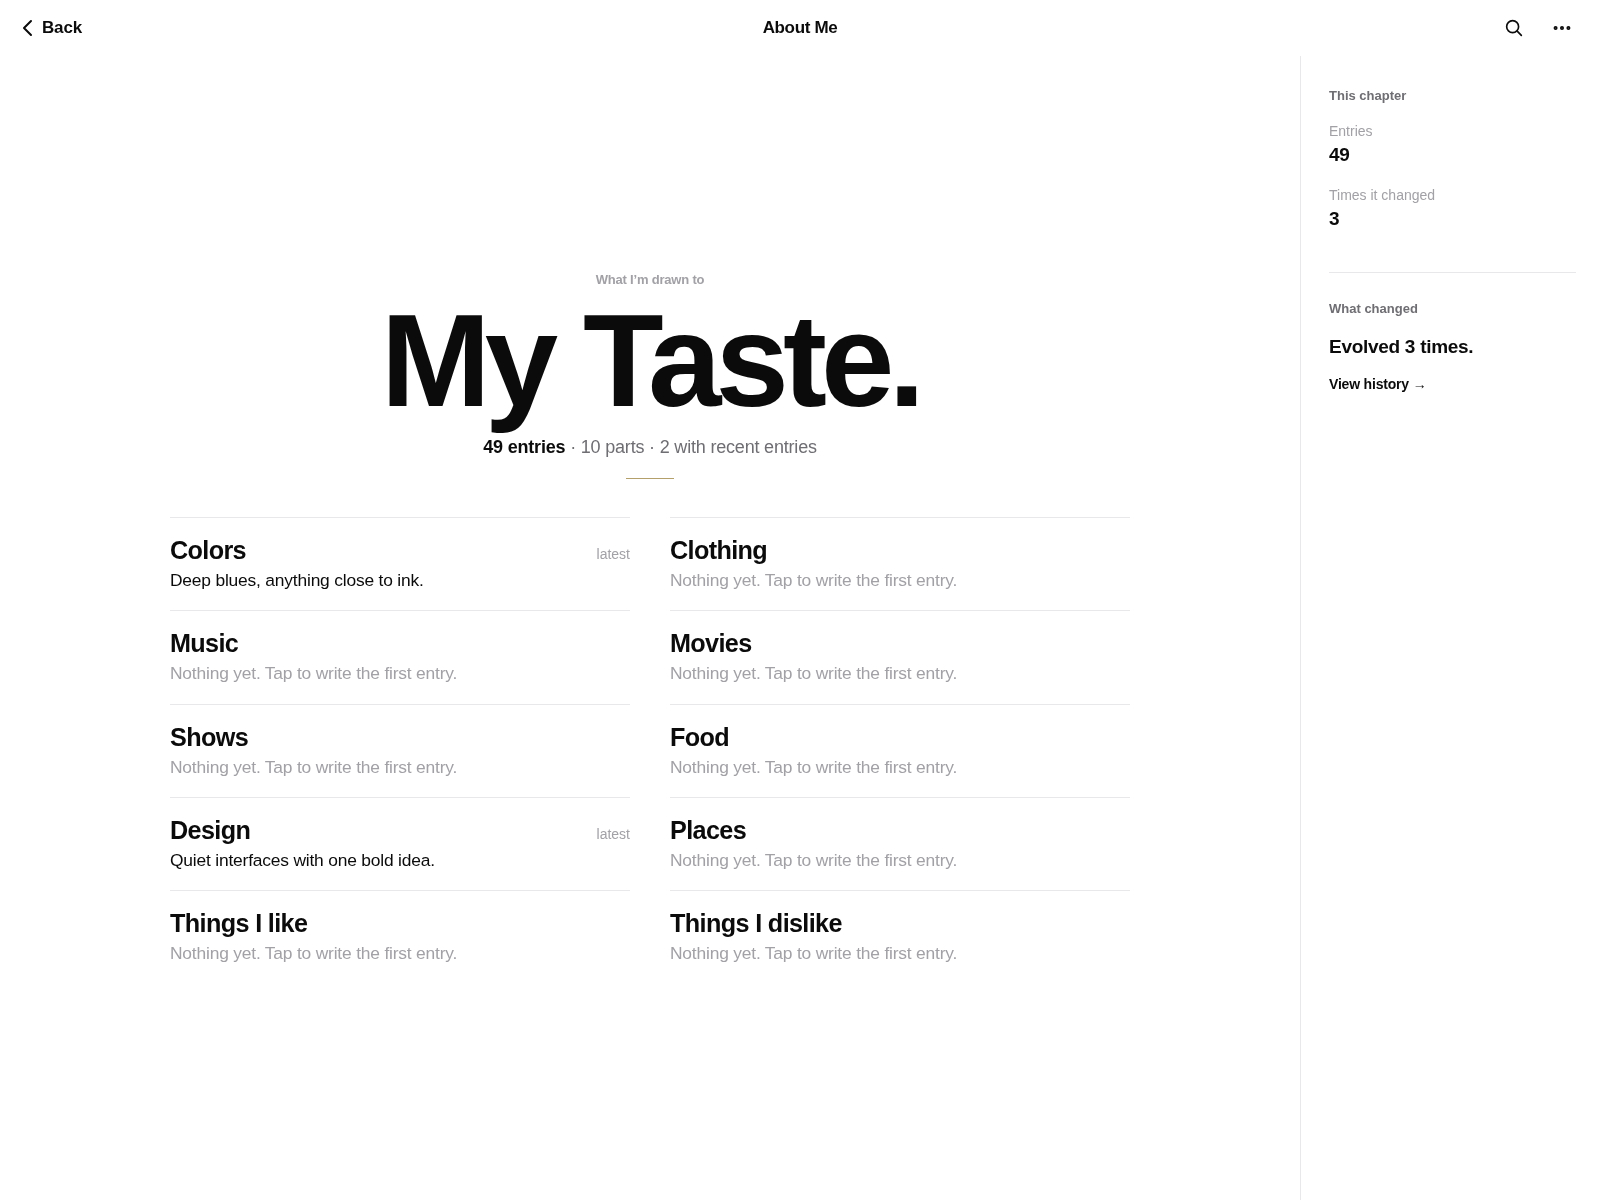
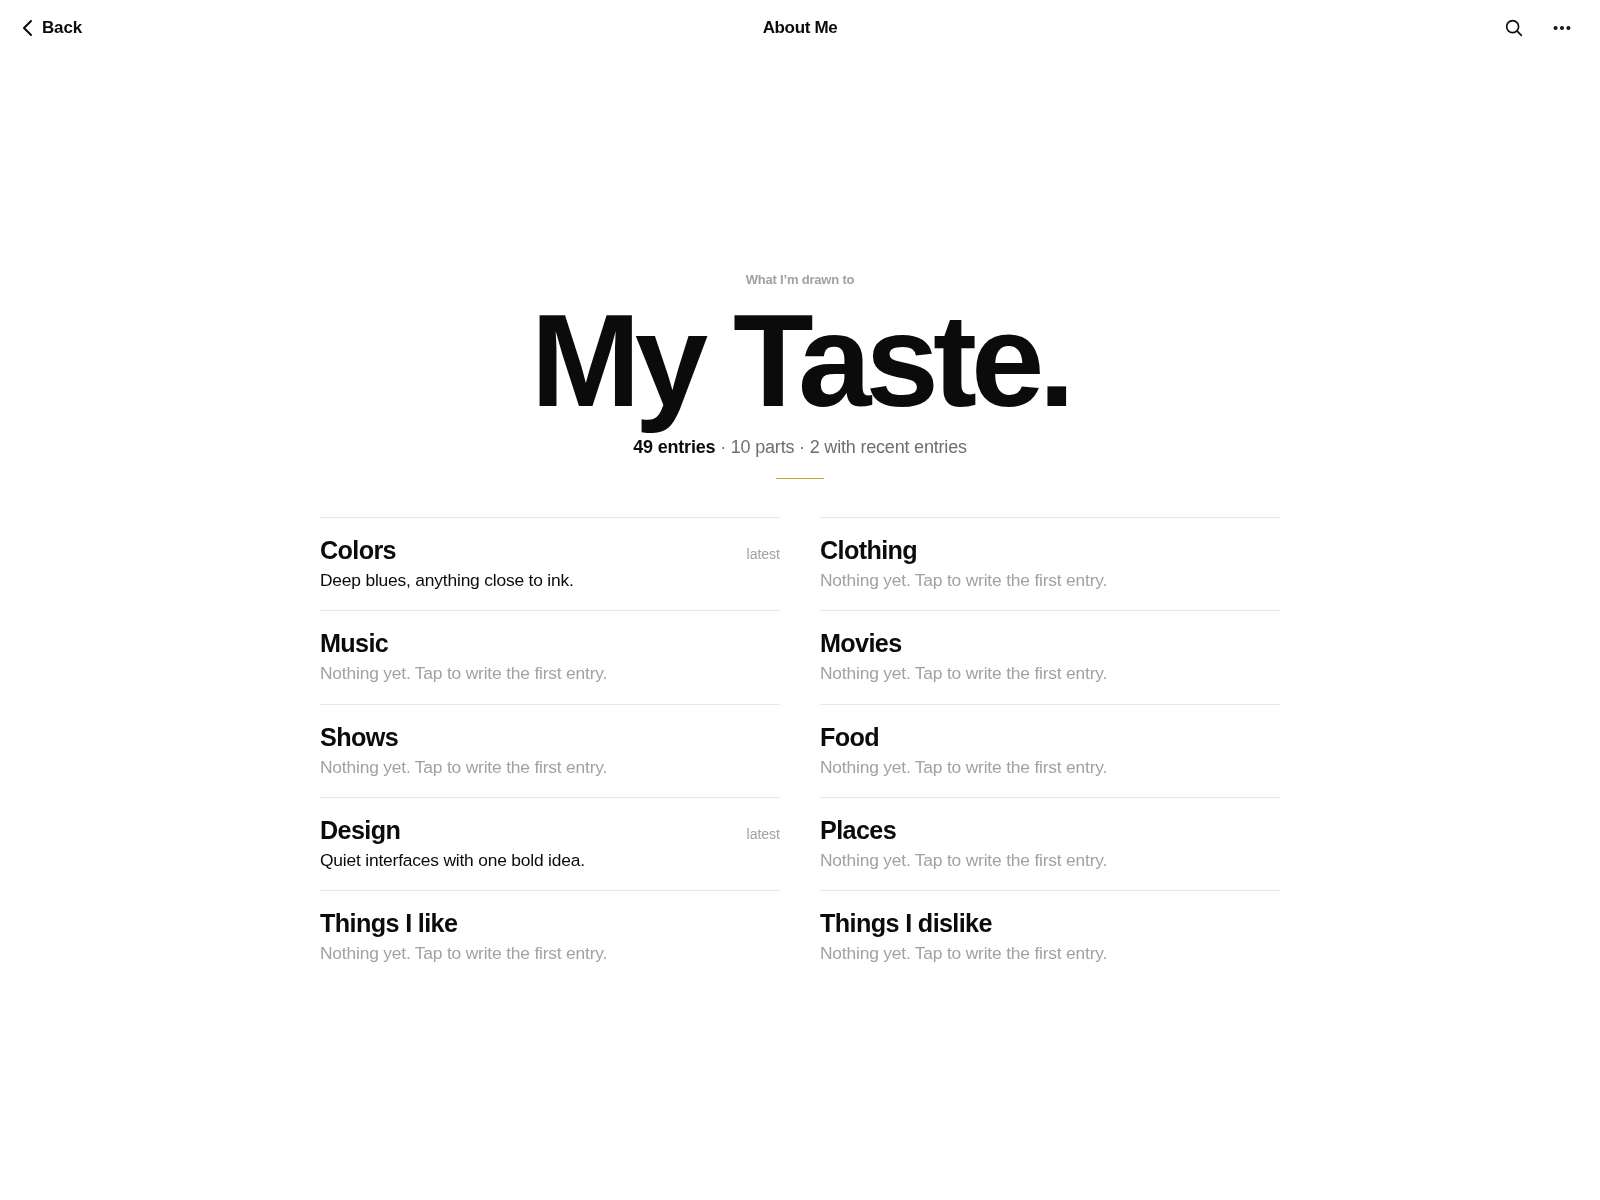
Show What Changed only on the home screen
Section pages drop the What Changed strip in portrait and the right
panel in landscape, so they show just the title and parts.

Claude-Session: https://claude.ai/code/session_01B2jaZ1SNYJtGLSRg6z58ic

diff --git a/index.html b/index.html
@@ -99,6 +99,8 @@ p { margin: 0; }
     padding: 32px max(24px, env(safe-area-inset-right, 0px)) 32px 28px; border-left: 1px solid var(--rule);
   }
   .home .latest { display: none; }                  /* lives in the context panel */
+  .app.inner { grid-template-columns: minmax(0, 1fr); }
+  .app.inner .context { display: none; }
 }
 
 /* ── Drawer nav ───────────────────────────────── */
@@ -371,7 +373,6 @@ function nowHTML() {
 }
 
 function chapterHTML(c) {
-  const related = [thread, change].filter(t => t.chapter === c.id);
   const filled = c.parts.filter(p => p[2]).length;
   return `<div class="home chapter-page">
     <header class="statement">
@@ -387,27 +388,10 @@ function chapterHTML(c) {
       </a>`).join("")}
     </section>
 
-    <section class="latest" aria-labelledby="chLatest">
-      <div class="block-head"><h2 id="chLatest">What changed.</h2>${c.changes ? `<a class="link" href="#history">View history →</a>` : ""}</div>
-      <div class="rows">
-        ${related.map(t => t.steps
-          ? `<p class="row"><span class="topic">${t.topic}</span><span><span class="old">“${esc(t.steps[0].quote)}”</span><span class="to">→</span><span>“${esc(t.steps.at(-1).quote)}”</span><span class="meta">${t.steps.length} versions</span></span></p>`
-          : `<p class="row"><span class="topic">${t.topic}</span><span><span class="was">${esc(t.was)}</span><span class="to">→</span><span>${esc(t.is)}</span><span class="meta">${t.date}</span></span></p>`).join("")}
-        <p class="row"><span class="topic">Overall</span><span><span>${c.changes ? `This chapter has evolved ${c.changes} times.` : "Nothing here has changed yet."}</span></span></p>
-      </div>
-    </section>
   </div>`;
 }
 
 function contextHTML(route) {
-  const c = chapters.find(x => x.id === route);
-  if (c) {
-    const related = [thread, change].filter(t => t.chapter === c.id);
-    return `<div class="ctx-block"><span class="label">This chapter</span>
-      <div class="ctx-item"><span class="meta">Entries</span><span class="v">${c.entries}</span></div>
-      <div class="ctx-item"><span class="meta">Times it changed</span><span class="v">${c.changes}</span></div></div>
-      <div class="ctx-block"><span class="label">What changed</span><p class="ctx-item"><span class="v">${c.changes ? `Evolved ${c.changes} times.` : "Nothing yet."}</span></p>${c.changes ? `<a class="link" href="#history">View history →</a>` : ""}${related.length ? related.map(t => `<div class="ctx-item"><span class="meta">${esc(t.topic)}</span><span class="v changed">${esc(t.is || t.steps.at(-1).quote)}</span></div>`).join("") : ""}</div>`;
-  }
   const last = thread.steps.length - 1;
   return `<div class="ctx-block"><span class="label">What changed</span>
       <div class="ctx-item"><span class="meta">${thread.topic}</span></div>
@@ -430,6 +414,7 @@ function render() {
   const isHome = route === "home";
   $("#menuBtn").hidden = !isHome;
   $("#backBtn").hidden = isHome;
+  $("#app").classList.toggle("inner", !isHome);           /* no What changed panel off the home screen */
   document.documentElement.classList.add("fit");
   $("#main").classList.add("is-home");
   window.scrollTo(0, 0);

diff --git a/DESIGN.md b/DESIGN.md
@@ -36,7 +36,7 @@ Note: a 1200pt canvas is wider than any real iPad (13" iPad Pro is 1032 × 1376p
 
 - **Top bar** across the full width: Menu · About Me · Search · ⋯. There's no sidebar: the home contents list and the Menu drawer are how you move around, the same as in portrait.
 - **Centre**: the statement on one line (**About Me.**) and the same contents list, vertically centred.
-- **Right, 300pt, What changed**: the full Friendships thread (three dated versions, the newest marked *now*) and the Career before → after with the *why*. On a chapter page this panel shows that chapter's changes.
+- **Right, 300pt, What changed**: the full Friendships thread (three dated versions, the newest marked *now*) and the Career before → after with the *why*. The panel appears only on home; every other page is full width.
 - So the two columns read: who I am now · how I got here. The earlier "Currently" panel was cut because it repeated Right now. word for word, which the no-scroll screen has no room for.
 - Between 900 and 1100pt wide (split view) there's no right panel, so the two-line What changed. strip returns to the centre.
 
@@ -52,7 +52,7 @@ They use the same composition as home, so every page feels like the same book:
 
 1. **Opening**: the tagline in small grey ("What I'm drawn to"), the chapter title as the statement (**My Taste.**), then "49 entries · 10 parts · 2 with recent entries" and the gold hairline.
 2. **Parts**: a 2-column grid (up to 10 parts, 5 rows). Each part has its name in bold and one line under it: the latest entry in black, or its description in grey, or "Nothing yet. Tap to write the first entry." in light grey. Clamped to 2 lines.
-3. **What changed.**: the chapter's evolution lines (e.g. Career: ~~Web design~~ → Web + app development) and "This chapter has evolved N times", with **View history →**. In wide landscape this moves to the right panel with the chapter's stats.
+3. **No What changed.** It appears only on the home screen. Section pages show just their title and parts, full width, in both orientations.
 
 Verified with no overflow on all 9 chapters, Right Now and home at 1200×1600, 1600×1200, iPad mini, 11" and 13" in both orientations, and a 1000×744 split-view window.
 
